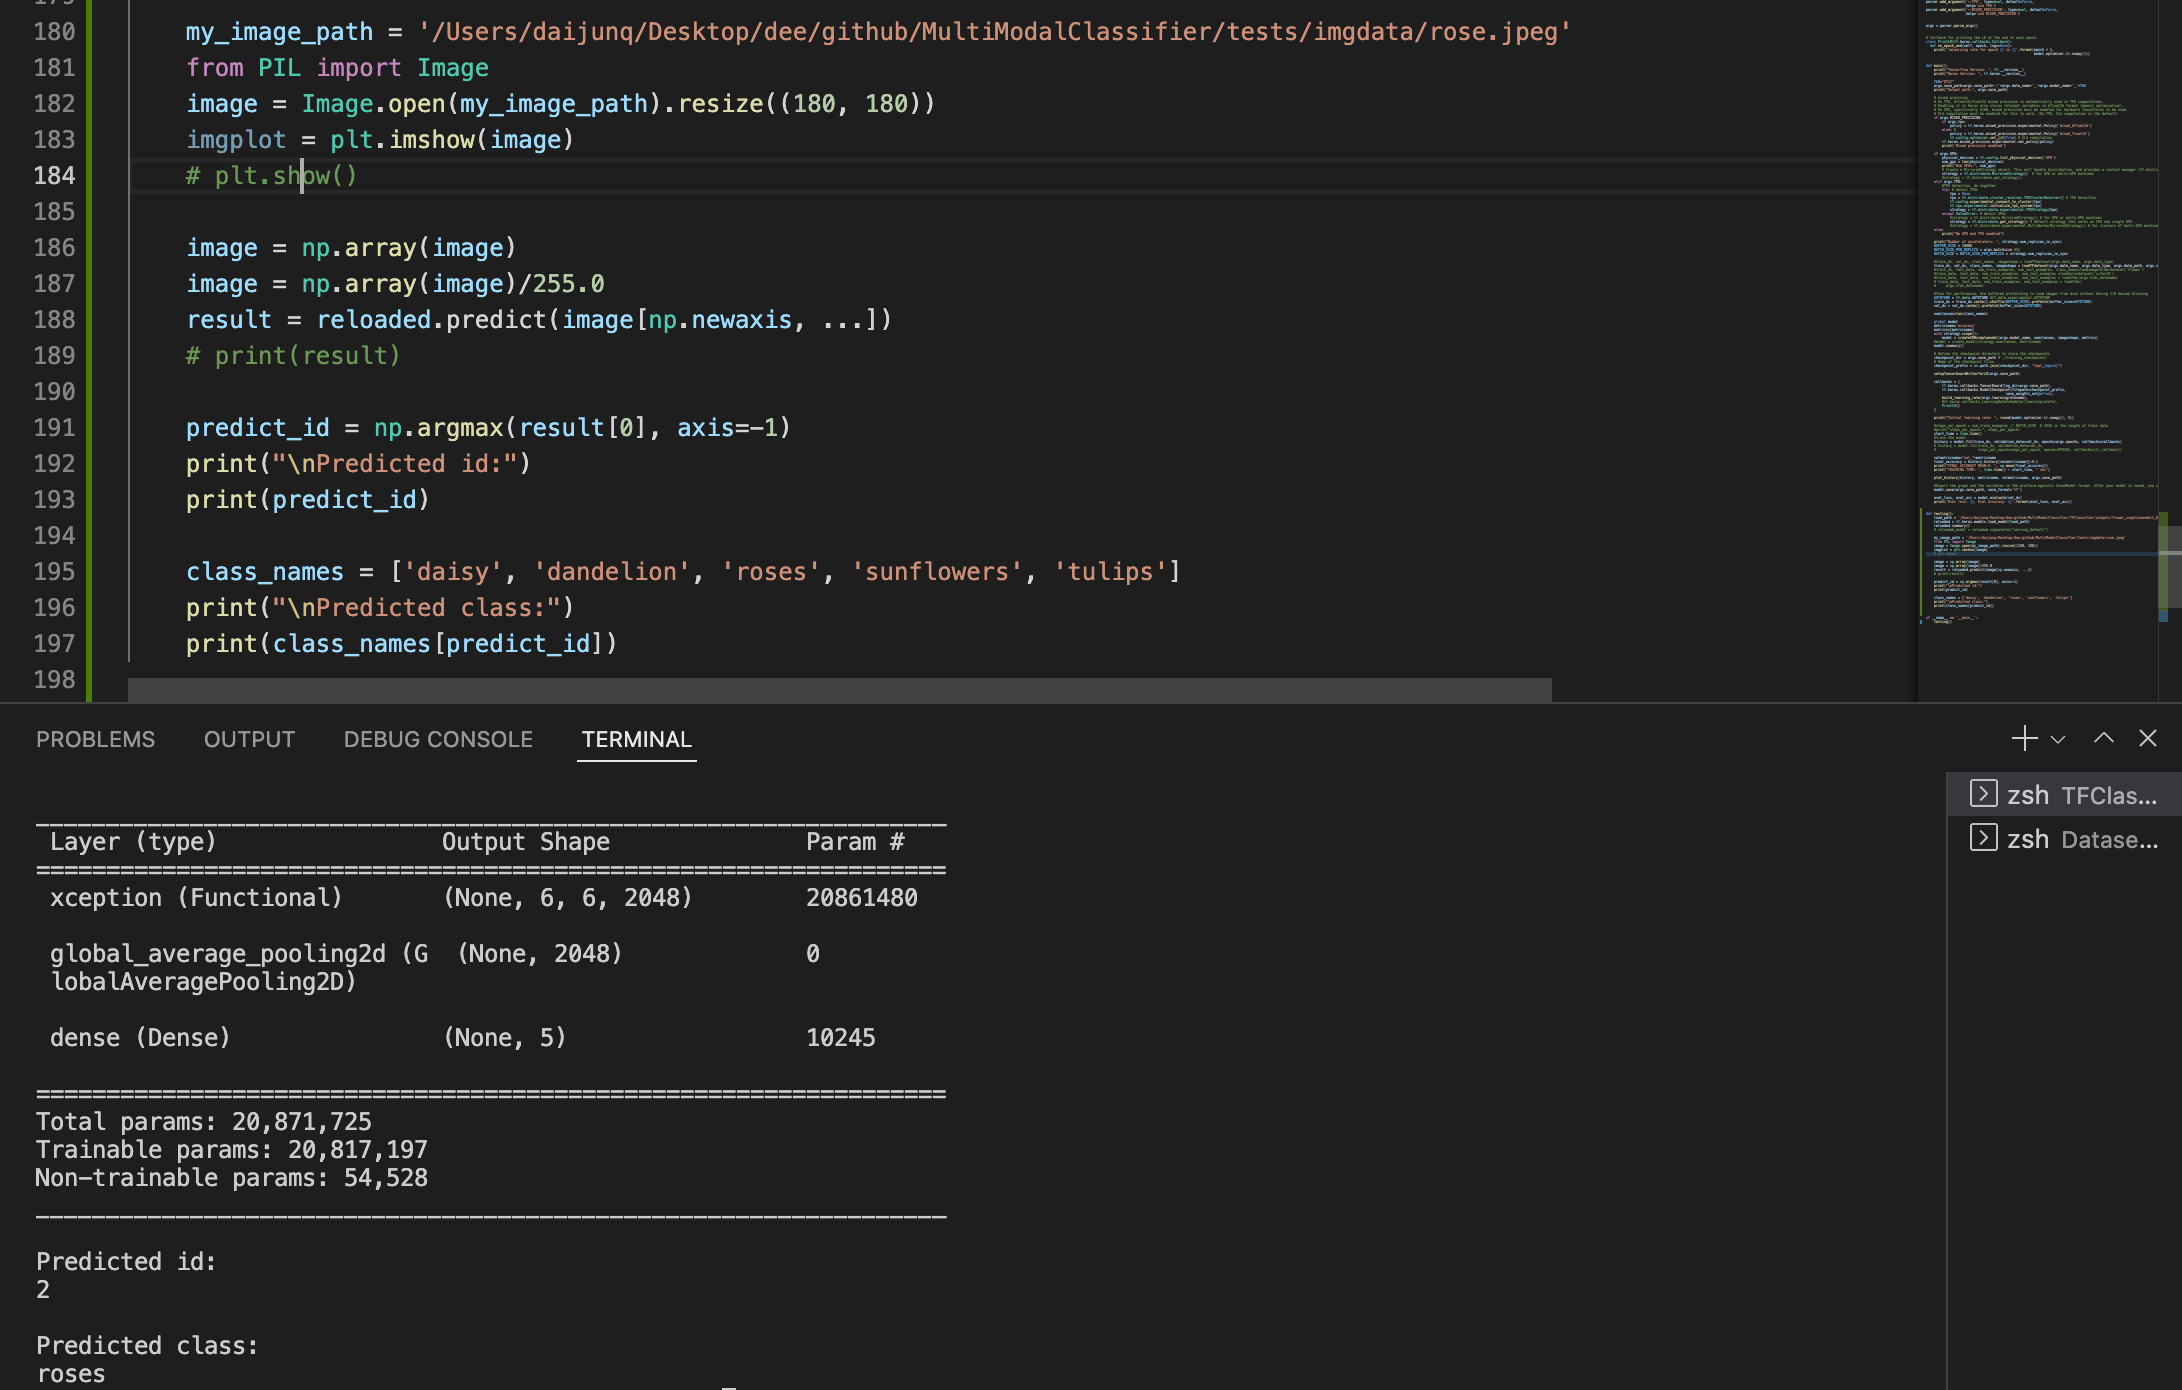
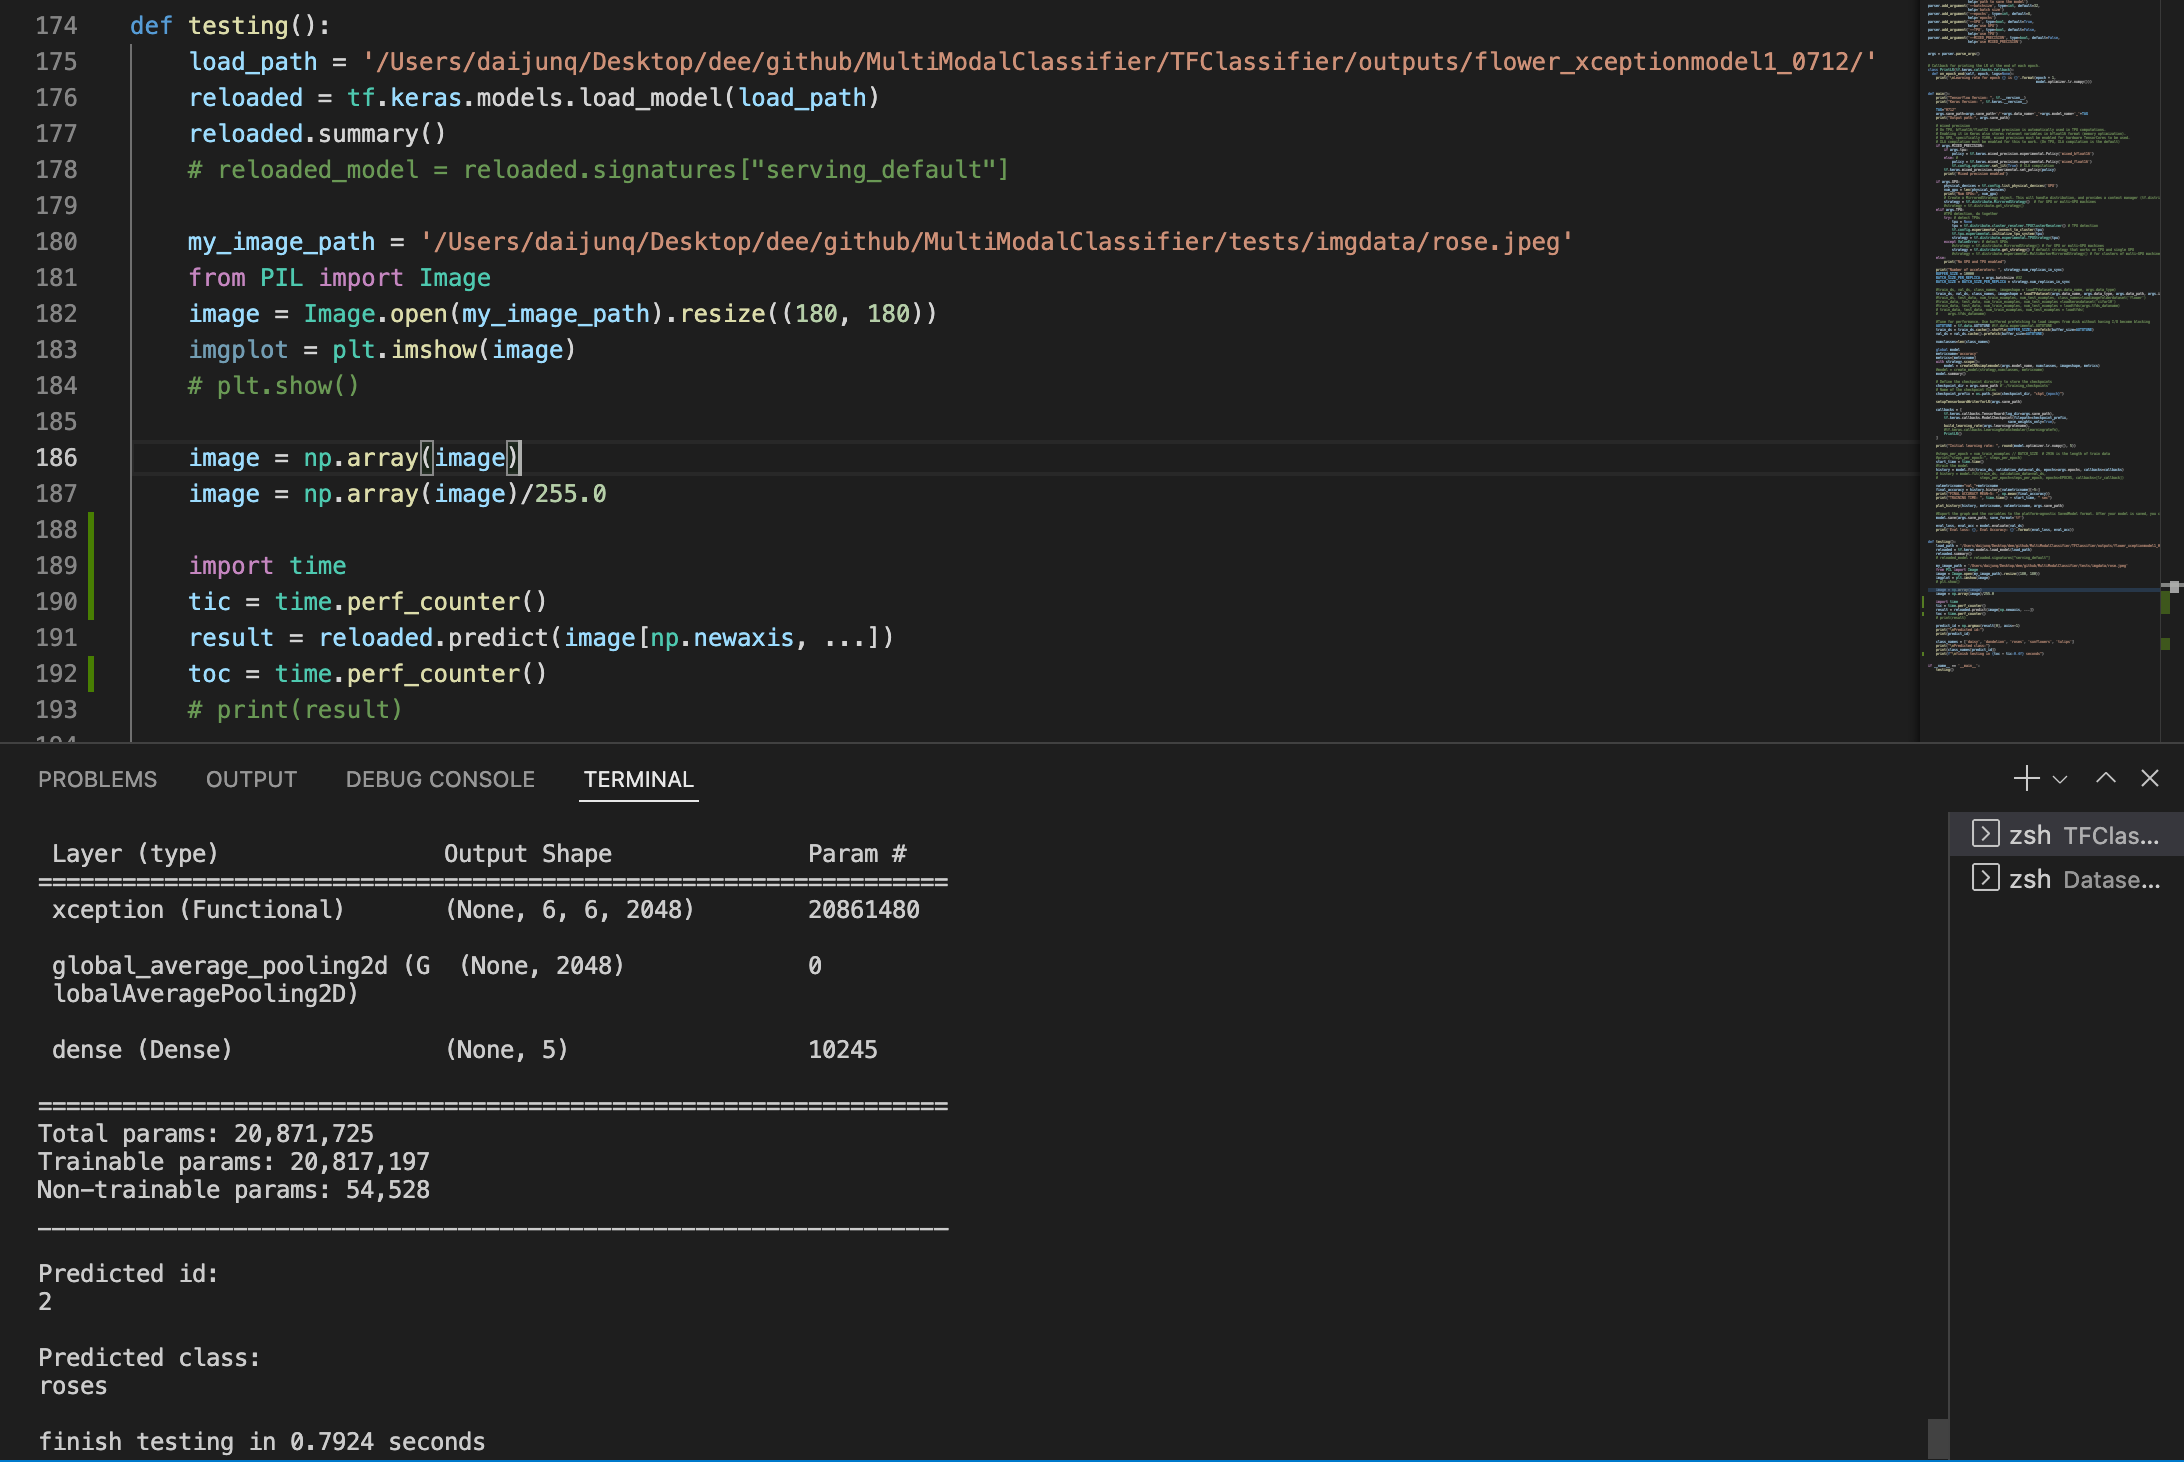
introduce time

diff --git a/TFClassifier/exportTFlite.py b/TFClassifier/exportTFlite.py
@@ -96,7 +96,9 @@ def testtfliteinference(tflite_model_path):
     tensor_index = input_details[0]['index']
     interpreter.set_tensor(tensor_index, input_data)
 
+    tic = time.perf_counter()
     interpreter.invoke()
+    toc = time.perf_counter()
 
     # The function `get_tensor()` returns a copy of the tensor data.
     # Use `tensor()` in order to get a pointer to the tensor.
@@ -114,6 +116,7 @@ def testtfliteinference(tflite_model_path):
     class_names = ['daisy', 'dandelion', 'roses', 'sunflowers', 'tulips']
     print("\nPredicted class:")
     print(class_names[classindex])
+    print(f"\nfinish testing in {toc - tic:0.4f} seconds")
 
 def loadimage(path, img_height, img_width):
     # load image

diff --git a/TFClassifier/myTFDistributedTrainerv2.py b/TFClassifier/myTFDistributedTrainerv2.py
@@ -185,7 +185,11 @@ def testing():
 
     image = np.array(image)
     image = np.array(image)/255.0
+
+    import time
+    tic = time.perf_counter()
     result = reloaded.predict(image[np.newaxis, ...])
+    toc = time.perf_counter()
     # print(result)
 
     predict_id = np.argmax(result[0], axis=-1)
@@ -195,6 +199,7 @@ def testing():
     class_names = ['daisy', 'dandelion', 'roses', 'sunflowers', 'tulips']
     print("\nPredicted class:")
     print(class_names[predict_id])
+    print(f"\nfinish testing in {toc - tic:0.4f} seconds")
 
 
 if __name__ == '__main__':
